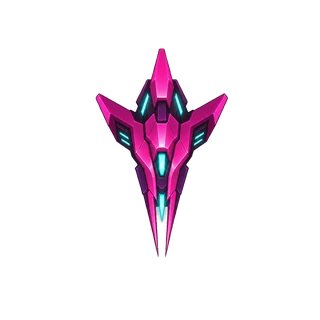
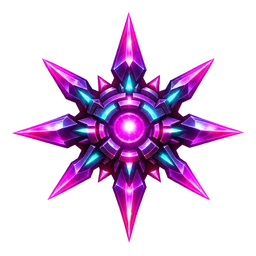
upd

Changed region(s): [[0.0312, 0.0312, 0.9688, 0.9375]]

diff --git a/grooverider/game.js b/grooverider/game.js
@@ -19,7 +19,7 @@ const TRACK_PROFILES=[
  {name:'SPOOKY FEELING',color:'#ae8dff',fire:.74,pick:.18,pace:.99}
 ];function profile(){return TRACK_PROFILES[musicIndex%TRACK_PROFILES.length]||TRACK_PROFILES[0]}
 
-let lastBeat=-1,musicEnabled=localStorage.getItem('grooveRaidMusic')!=='off',musicTracks=[],musicIndex=0,localMusicURLs=[],playlistIsLocal=false;
+let lastBeat=-1,musicEnabled=localStorage.getItem('grooveRaidMusic')!=='off',musicTracks=[],musicIndex=0,shuffleBag=[],localMusicURLs=[],playlistIsLocal=false;
 let musicGraph=null,musicAnalyser=null,musicFrequency=null,musicBass=0,musicMid=0,trackStarted=false;
 const musicEl=new Audio();musicEl.preload='auto';musicEl.volume=.72;musicEl.muted=!musicEnabled;
 function updateMusicButtons(){ui.music.classList.toggle('off',!musicEnabled);ui.music.classList.toggle('on',musicEnabled);ui.music.textContent=musicEnabled?'♫':'♪̸';ui.music.title=musicEnabled?'Music on · click to mute':'Music off · click to unmute';ui.music.setAttribute('aria-pressed',String(musicEnabled));}
@@ -46,12 +46,27 @@ const DEFAULT_TRACKS=[
   'rozzo – le martini [See the Sea Records].mp3',
   'rozzo – spooky feeling [See the Sea Records].mp3'
 ];
-function formatTrackTitle(filename){return filename.replace(/^rozzo\s*[-–]\s*/i,'').replace(/\s*\[(Minar Records|See the Sea Records)\]/g,'').replace(/\.mp3$/i,'')}
+function sourceFilename(track){let raw=typeof track==='string'?track:(track.file||track.src||track.title||'');try{return decodeURIComponent(String(raw).split('/').pop())}catch{return String(raw).split('/').pop()}}
+function trackInfo(source){
+ const raw=sourceFilename(source).replace(/\.(mp3|ogg|wav|m4a|aac|flac)$/i,'').trim();
+ const match=raw.match(/^(.+?)\s*[-–]\s*(.+?)(?:\s*\[([^\]]+)\])?$/);
+ if(match)return {artist:match[1].trim(),song:match[2].trim(),label:(match[3]||'Label not specified').trim()};
+ return {artist:'rozzo',song:raw.replace(/\s*\[[^\]]+\]$/,'').trim(),label:raw.match(/\[([^\]]+)\]$/)?.[1]||'Label not specified'};
+}
+function formatTrackTitle(filename){const t=trackInfo(filename);return `${t.artist} — ${t.song} — ${t.label}`}
 function fileUrl(name){return 'audio/'+name.split('/').map(encodeURIComponent).join('/')}
-function normalizeTracks(list){return list.map(t=>typeof t==='string'?{title:formatTrackTitle(t),src:fileUrl(t),offset:0}:{title:t.title||formatTrackTitle(t.file||'Untitled'),src:t.src||fileUrl(t.file||''),offset:Number(t.offset)||0}).filter(t=>t.src)}
+function normalizeTracks(list){return list.map(t=>{
+ const src=typeof t==='string'?fileUrl(t):(t.src||fileUrl(t.file||''));
+ const basis=sourceFilename(t), info=trackInfo(basis);
+ // Preserve file-derived artist/label, even when a manifest has only a short display title.
+ return {title:formatTrackTitle(basis),artist:info.artist,song:info.song,label:info.label,src,offset:typeof t==='string'?0:(Number(t.offset)||0)};
+}).filter(t=>t.src)}
+function refillShuffle(){shuffleBag=musicTracks.map((_,i)=>i).filter(i=>musicTracks.length<2||i!==musicIndex);for(let i=shuffleBag.length-1;i>0;i--){const j=Math.floor(Math.random()*(i+1));[shuffleBag[i],shuffleBag[j]]=[shuffleBag[j],shuffleBag[i]]}}
+function nextRandomIndex(){if(musicTracks.length<2)return 0;if(!shuffleBag.length)refillShuffle();return shuffleBag.pop()}
+function resetShuffle(){shuffleBag=[]}
 // Seed the playlist synchronously, before the start-button gesture. Do not wait for fetch().
 musicTracks=normalizeTracks(DEFAULT_TRACKS);
-function setTrack(i){if(!musicTracks.length)return;musicIndex=((i%musicTracks.length)+musicTracks.length)%musicTracks.length;const tr=musicTracks[musicIndex];trackStarted=false;musicEl.src=tr.src;musicEl.load();lastBeat=-1;musicStatus('♫ '+(musicIndex+1)+'/'+musicTracks.length+' · '+tr.title);ui.track.title=tr.title;}
+function setTrack(i){if(!musicTracks.length)return;musicIndex=((i%musicTracks.length)+musicTracks.length)%musicTracks.length;const tr=musicTracks[musicIndex];trackStarted=false;musicEl.src=tr.src;musicEl.load();lastBeat=-1;musicStatus('♫ '+(musicIndex+1)+'/'+musicTracks.length+' · '+tr.title);ui.track.textContent=tr.title;ui.track.title=tr.title;}
 setTrack(0);
 function playMusic(){if(!musicTracks.length||state!=='playing'||!musicEnabled)return;if(!musicEl.src)setTrack(musicIndex);
   setupMusicGraph(); // resume the audio graph in the original user gesture
@@ -65,16 +80,16 @@ fetch('audio/tracks.json',{cache:'no-store'}).then(r=>{if(!r.ok)throw Error('No 
  const list=normalizeTracks(Array.isArray(data)?data:data.tracks||[]);
  if(!list.length)return;
  const old=musicTracks[musicIndex];
- const match=list.findIndex(t=>t.title===old?.title);
- musicTracks=list;
+ const match=list.findIndex(t=>t.src===old?.src);
+ musicTracks=list;resetShuffle();
  if(match>=0)musicIndex=match;
  if(state==='menu'&&musicEl.paused)setTrack(musicIndex);
 }).catch(()=>{/* bundled playlist already works without JSON */});
 ui.loadTracks.onclick=()=>ui.audioFiles.click();
-ui.audioFiles.onchange=e=>{for(const url of localMusicURLs)URL.revokeObjectURL(url);const files=[...e.target.files].filter(f=>/\.(mp3|ogg|wav|m4a|aac|flac)$/i.test(f.name)||f.type.startsWith('audio/'));localMusicURLs=files.map(f=>URL.createObjectURL(f));if(!files.length)return;playlistIsLocal=true;musicTracks=normalizeTracks(files.map((f,i)=>({title:formatTrackTitle(f.name),src:localMusicURLs[i],offset:0})));setTrack(0);musicStatus('LOCAL TRACKS LOADED · '+files.length);if(state==='playing'&&musicEnabled)playMusic();};
+ui.audioFiles.onchange=e=>{for(const url of localMusicURLs)URL.revokeObjectURL(url);const files=[...e.target.files].filter(f=>/\.(mp3|ogg|wav|m4a|aac|flac)$/i.test(f.name)||f.type.startsWith('audio/'));localMusicURLs=files.map(f=>URL.createObjectURL(f));if(!files.length)return;playlistIsLocal=true;musicTracks=normalizeTracks(files.map((f,i)=>({file:f.name,src:localMusicURLs[i],offset:0})));resetShuffle();setTrack(nextRandomIndex());musicStatus('LOCAL TRACKS LOADED · '+files.length);if(state==='playing'&&musicEnabled)playMusic();};
 ui.music.onclick=()=>{musicEnabled=!musicEnabled;localStorage.setItem('grooveRaidMusic',musicEnabled?'on':'off');musicEl.muted=!musicEnabled;updateMusicButtons();if(musicEnabled){if(state==='playing')playMusic();else musicStatus('MUSIC ON · PRESS PLAY');}else{musicEl.pause();trackStarted=false;musicStatus('MUSIC OFF');}};
-ui.next.onclick=()=>{if(!musicTracks.length)return;setTrack(musicIndex+1);if(state==='playing'&&musicEnabled)playMusic();};
-musicEl.addEventListener('ended',()=>{if(musicTracks.length){setTrack(musicIndex+1);if(state==='playing'&&musicEnabled)playMusic();}});
+ui.next.onclick=()=>{if(!musicTracks.length)return;setTrack(nextRandomIndex());if(state==='playing'&&musicEnabled)playMusic();};
+musicEl.addEventListener('ended',()=>{if(musicTracks.length){setTrack(nextRandomIndex());if(state==='playing'&&musicEnabled)playMusic();}});
 musicEl.addEventListener('error',()=>{const name=musicTracks[musicIndex]?.title||'track';const code=musicEl.error?.code||'?';musicStatus('COULD NOT LOAD: '+name+' (code '+code+')',true);});
 function pauseMusic(){musicEl.pause()}
 function resumeMusic(){if(musicTracks.length&&musicEnabled)playMusic()}
@@ -85,7 +100,7 @@ function groove(z){return 240+86*Math.sin(z*.0026+.3)+35*Math.sin(z*.0073+1.2)+1
 function width(z){return 104+21*Math.sin(z*.0021+2.1)+13*Math.sin(z*.0067+1.4)}
 function banks(z){let c=groove(z),w=width(z);return[c-w,c+w]}
 function section(z){if(z<1800)return 'THE RUN-IN';if(z<3800)return 'DUST & STATIC';if(z<6500)return 'BASS PRESSURE';return 'THE INNER GROOVE'}
-function fresh(){seed=54879;state='playing';travel=0;distSpawn=350;score=0;energy=100;combo=0;shields=0;speed=125;beat=0;beatFlash=0;shake=0;flash=0;clock=0;playTime=0;lastBeat=-1;entities=[];bullets=[];enemyBullets=[];sparks=[];waves=[];ghosts=[];floaters=[];currentSection='';bossMeter=1800;nextBossAt=4200;bossActive=false;sectionFlash=0;scoreTick=0;powerUntil=0;powerType='';lastPowerAt=-300;lastTrackIndex=-1;touchSteerActive=false;touchSteerX=240;touchSteerY=616;touchId=null;touchStartClientX=0;touchStartClientY=0;touchStartPlayerX=240;touchStartPlayerY=616;player.x=groove(185);player.y=616;player.vx=0;player.vy=0;player.cool=0;player.inv=1.6;player.tilt=0;ui.overlay.classList.add('hidden');ui.pause.textContent='Ⅱ';if(musicTracks.length){setTrack(musicIndex);playMusic()}tone(330,.12,'triangle',.09,1.6);setTimeout(()=>tone(660,.17,'triangle',.06,1.25),100)}
+function fresh(){seed=54879;state='playing';travel=0;distSpawn=350;score=0;energy=100;combo=0;shields=0;speed=125;beat=0;beatFlash=0;shake=0;flash=0;clock=0;playTime=0;lastBeat=-1;entities=[];bullets=[];enemyBullets=[];sparks=[];waves=[];ghosts=[];floaters=[];currentSection='';bossMeter=1800;nextBossAt=4200;bossActive=false;sectionFlash=0;scoreTick=0;powerUntil=0;powerType='';lastPowerAt=-300;lastTrackIndex=-1;touchSteerActive=false;touchSteerX=240;touchSteerY=616;touchId=null;touchStartClientX=0;touchStartClientY=0;touchStartPlayerX=240;touchStartPlayerY=616;player.x=groove(185);player.y=616;player.vx=0;player.vy=0;player.cool=0;player.inv=1.6;player.tilt=0;ui.overlay.classList.add('hidden');ui.pause.textContent='Ⅱ';if(musicTracks.length){musicIndex=Math.floor(Math.random()*musicTracks.length);resetShuffle();setTrack(musicIndex);playMusic()}tone(330,.12,'triangle',.09,1.6);setTimeout(()=>tone(660,.17,'triangle',.06,1.25),100)}
 function overlay(kind){pauseMusic();state=kind;ui.overlay.classList.remove('hidden');ui.result.hidden=true;if(kind==='paused'){ui.kicker.textContent='INTERMISSION';ui.title.innerHTML='ON <em>HOLD</em>';ui.text.textContent='The needle is lifted. Ready when you are.';ui.play.innerHTML='RESUME PLAYBACK <span>↗</span>';ui.hint.textContent='PRESS P OR ESC TO RESUME';}else{if(score>best){best=score;localStorage.setItem('grooveRaidBest',String(best));ui.best.textContent=String(best).padStart(6,'0')}ui.kicker.textContent='END OF SIDE A';ui.title.innerHTML='SIGNAL <em>LOST</em>';ui.text.textContent='The groove got you. Drop the needle again and go deeper.';ui.result.hidden=false;ui.result.innerHTML=`SCORE <b>${String(score).padStart(6,'0')}</b> &nbsp; · &nbsp; DEPTH <b>${Math.floor(travel/10)}m</b>`;ui.play.innerHTML='PLAY AGAIN <span>↗</span>';ui.hint.textContent='CHASE YOUR NEXT HIGH SCORE';tone(190,.35,'sawtooth',.06,.4)}}
 ui.play.onclick=()=>{if(state==='paused'){state='playing';ui.overlay.classList.add('hidden');resumeMusic()}else fresh()};ui.pause.onclick=()=>{if(state==='playing')overlay('paused');else if(state==='paused'){state='playing';ui.overlay.classList.add('hidden');resumeMusic()}};
 ui.sound.onclick=()=>{sound=!sound;updateSoundButton();if(sound)tone(660,.08)};
@@ -105,7 +120,7 @@ function triggerSection(name){if(currentSection===name)return;currentSection=nam
 function spawnBoss(){if(bossActive)return;bossActive=true;const z=travel+1120;const x=groove(z);const kind=rnd()>.5?'bossPulse':'bossJelly';const boss={kind,x,z,r:52,hp:BASE_BOSS_HP,maxHp:BASE_BOSS_HP,damage:34,points:1500,phase:rnd()*6,originX:x,lastPulse:-1,boss:true,spawnedAt:travel,fireCool:1.1};entities.push(boss);addFloater(kind==='bossPulse'?'MINI-BOSS: PULSE CORE':'MINI-BOSS: GLITCH HIVE',240,205,'#ff86d9',2);waves.push({x:240,y:220,r:18,life:.9,color:'#86fff3'});tone(130,.22,'sawtooth',.07,1.15)}
 
 
-function spawnEnemy(kind,z,x,extra={}){const defs={dust:{r:20,hp:1,damage:18,points:110},static:{r:23,hp:2,damage:24,points:170},needle:{r:22,hp:2,damage:22,points:180},pulse:{r:26,hp:3,damage:30,points:250},jelly:{r:28,hp:3,damage:27,points:280}};entities.push(Object.assign({kind,x,z,phase:rnd()*6,side:rnd()>.5?1:-1,originX:x,lastPulse:-1},defs[kind],extra));}
+function spawnEnemy(kind,z,x,extra={}){const defs={dust:{r:20,hp:1,damage:18,points:110},static:{r:23,hp:2,damage:24,points:170},needle:{r:23,hp:2,damage:22,points:180},pulse:{r:26,hp:3,damage:30,points:250},jelly:{r:28,hp:3,damage:27,points:280}};entities.push(Object.assign({kind,x,z,phase:rnd()*6,side:rnd()>.5?1:-1,originX:x,lastPulse:-1},defs[kind],extra));}
 function spawn(){while(distSpawn<travel+980){let z=distSpawn,lanes=banks(z),margin=28,depth=Math.min(1,travel/5600),span=lanes[1]-lanes[0]-margin*2,slot=(n,total)=>lanes[0]+margin+span*((n+1)/(total+1)),typ=rnd();
  if(typ<.14){if(rnd()>.25)entities.push({kind:'charge',x:slot(0,1),z,r:17,phase:rnd()*6});}
  else if(typ<.14+profile().pick*.42&&travel>500&&z-lastPowerAt>1100){spawnPowerup(z);}
@@ -143,7 +158,7 @@ for(let i=entities.length-1;i>=0;i--){let e=entities[i],y=H-(e.z-travel);if(y>H+
   if(e.kind==='power'&&Math.hypot(e.x-player.x,y-player.y)<e.r+18){acquirePower(e,y);entities.splice(i,1);continue}if(e.kind==='charge'&&Math.hypot(e.x-player.x,y-player.y)<e.r+18){energy=clamp(energy+16,0,100);score+=90;entities.splice(i,1);addSparks(e.x,y,'#8bffe5',20,125);waves.push({x:e.x,y,r:12,life:.6,color:'#91ffea'});addFloater('+16 SIGNAL',e.x,y-18,'#91ffea');tone(540,.21,'sine',.085,1.9);continue}
   if(e.kind==='crack'){if(Math.abs(y-player.y)<10&&Math.abs(player.x-e.gx)>e.gap*.5-8)hit(22)}
   else if(e.kind!=='charge'&&e.kind!=='power'&&Math.hypot(e.x-player.x,y-player.y)<e.r+12)hit(e.damage||20)}
- for(let i=sparks.length-1;i>=0;i--){let p=sparks[i];p.x+=p.vx*dt;p.y+=p.vy*dt;p.vx*=.978;p.vy*=.978;p.life-=dt;if(p.life<=0)sparks.splice(i,1)}for(let i=waves.length-1;i>=0;i--){let v=waves[i];v.r+=dt*190;v.life-=dt;if(v.life<=0)waves.splice(i,1)}for(let i=floaters.length-1;i>=0;i--){let f=floaters[i];f.y-=dt*24;f.life-=dt;if(f.life<=0)floaters.splice(i,1)}sectionFlash=Math.max(0,sectionFlash-dt*.55);ui.score.textContent=String(score).padStart(6,'0');ui.energy.textContent=Math.ceil(energy)+'%';ui.bar.style.width=energy+'%';ui.bar.style.background=energy<30?'linear-gradient(90deg,#f64c79,#ffa787)':'linear-gradient(90deg,#31d7c4,#b2fff2)';ui.track.textContent=(musicTracks.length?('♫ '+musicTracks[musicIndex].title.toUpperCase().slice(0,15)):'SIDE A — '+section(travel));document.querySelectorAll('.beat-dots i').forEach((el,i)=>el.classList.toggle('active',i===beat));}
+ for(let i=sparks.length-1;i>=0;i--){let p=sparks[i];p.x+=p.vx*dt;p.y+=p.vy*dt;p.vx*=.978;p.vy*=.978;p.life-=dt;if(p.life<=0)sparks.splice(i,1)}for(let i=waves.length-1;i>=0;i--){let v=waves[i];v.r+=dt*190;v.life-=dt;if(v.life<=0)waves.splice(i,1)}for(let i=floaters.length-1;i>=0;i--){let f=floaters[i];f.y-=dt*24;f.life-=dt;if(f.life<=0)floaters.splice(i,1)}sectionFlash=Math.max(0,sectionFlash-dt*.55);ui.score.textContent=String(score).padStart(6,'0');ui.energy.textContent=Math.ceil(energy)+'%';ui.bar.style.width=energy+'%';ui.bar.style.background=energy<30?'linear-gradient(90deg,#f64c79,#ffa787)':'linear-gradient(90deg,#31d7c4,#b2fff2)';ui.track.textContent=(musicTracks.length?musicTracks[musicIndex].title:'SIDE A — '+section(travel));document.querySelectorAll('.beat-dots i').forEach((el,i)=>el.classList.toggle('active',i===beat));}
 
 function path(){ctx.beginPath();for(let y=-35;y<=H+35;y+=7){let z=travel+H-y,l=banks(z)[0];if(y===-35)ctx.moveTo(l,y);else ctx.lineTo(l,y)}for(let y=H+35;y>=-35;y-=7){let z=travel+H-y,r=banks(z)[1];ctx.lineTo(r,y)}ctx.closePath()}
 function drawBackground(){ctx.fillStyle='#0a0711';ctx.fillRect(0,0,W,H);if(art.texture.complete&&art.texture.naturalWidth){ctx.save();ctx.globalAlpha=.16;ctx.drawImage(art.texture,0,-200+(travel*.035)%200,W,H+200);ctx.restore();}let grad=ctx.createRadialGradient(240,400,35,240,400,510);grad.addColorStop(0,'#231224');grad.addColorStop(.68,'#0d0914');grad.addColorStop(1,'#08060c');ctx.fillStyle=grad;ctx.fillRect(0,0,W,H);
@@ -158,7 +173,7 @@ function drawGroove(){ctx.save();ctx.shadowColor='#f33b86';ctx.shadowBlur=25+mus
 function drawCharge(x,y,t){if(art.charge.complete&&art.charge.naturalWidth){ctx.save();ctx.globalCompositeOperation='screen';ctx.drawImage(art.charge,x-24,y-30,48,60);ctx.restore();return}ctx.save();ctx.translate(x,y);ctx.rotate(t*.8);ctx.shadowColor='#72ffe2';ctx.shadowBlur=24;ctx.strokeStyle='#72ffe2';ctx.lineWidth=3;ctx.beginPath();ctx.moveTo(0,-15);ctx.lineTo(13,0);ctx.lineTo(0,15);ctx.lineTo(-13,0);ctx.closePath();ctx.stroke();ctx.fillStyle='#72ffe2';ctx.fillRect(-4,-4,8,8);ctx.restore()}
 
 function drawPower(e,x,y){const c=e.power==='shield'?'#95f8ff':e.power==='rapid'?'#ffe78e':'#f39cff';ctx.save();ctx.translate(x,y);ctx.rotate(clock*1.2);ctx.shadowColor=c;ctx.shadowBlur=18;ctx.strokeStyle=c;ctx.lineWidth=3;ctx.beginPath();for(let j=0;j<6;j++){let a=j*Math.PI/3,xx=Math.cos(a)*19,yy=Math.sin(a)*19;j?ctx.lineTo(xx,yy):ctx.moveTo(xx,yy)}ctx.closePath();ctx.stroke();ctx.rotate(-clock*1.2);ctx.fillStyle=c;ctx.font='bold 16px monospace';ctx.textAlign='center';ctx.textBaseline='middle';ctx.fillText(e.power==='shield'?'S':e.power==='rapid'?'R':'3',0,1);ctx.restore()}
-function drawEnemy(e,x,y,t){const spriteKey={dust:'dust',static:'static',needle:'needle',pulse:'pulse',jelly:'jelly',bossPulse:'pulse',bossJelly:'jelly'}[e.kind],img=art[spriteKey];if(img&&img.complete&&img.naturalWidth){ctx.save();ctx.globalCompositeOperation='screen';ctx.translate(x,y);const rot=e.kind==='static'?t*1.4:(e.kind==='pulse'||e.kind==='bossPulse')?t*.5:e.kind==='needle'?Math.atan2(0,player.x-e.x)*.04+Math.sin(t*2+e.phase)*.08:Math.sin(t*2+e.phase)*.11;ctx.rotate(rot);const scale=(e.kind==='jelly'||e.kind==='bossJelly')?2.6:((e.kind==='pulse'||e.kind==='bossPulse')?2.3:(e.kind==='needle'?2.2:2.15));const bossBoost=e.boss?1.45:1;ctx.drawImage(img,-e.r*scale*bossBoost/2,-e.r*scale*bossBoost/2,e.r*scale*bossBoost,e.r*scale*bossBoost);ctx.restore();return}ctx.save();ctx.translate(x,y);ctx.rotate(Math.sin(t*2+e.phase)*.15);let r=e.r;if(e.kind==='dust'){ctx.shadowColor='#f23c83';ctx.shadowBlur=17;ctx.fillStyle='#f63d83';ctx.beginPath();for(let a=0;a<10;a++){let angle=a*Math.PI/5,rr=a%2?r*.6:r;ctx.lineTo(Math.cos(angle)*rr,Math.sin(angle)*rr)}ctx.closePath();ctx.fill();ctx.fillStyle='#2a0d2d';ctx.beginPath();ctx.arc(0,0,6,0,7);ctx.fill()}else if(e.kind==='needle'){ctx.fillStyle='#fb80a8';ctx.beginPath();ctx.moveTo(0,-r);ctx.lineTo(r*.72,r*.4);ctx.lineTo(0,r*.9);ctx.lineTo(-r*.72,r*.4);ctx.closePath();ctx.fill()}else if(e.kind==='pulse'){ctx.strokeStyle='#ff80c0';ctx.lineWidth=4;ctx.beginPath();ctx.arc(0,0,r,0,7);ctx.stroke();ctx.strokeStyle='#84fff2';ctx.beginPath();ctx.arc(0,0,r*.48,0,7);ctx.stroke()}else if(e.kind==='jelly'){ctx.fillStyle='rgba(251,128,168,.9)';ctx.beginPath();ctx.arc(0,0,r*.8,0,7);ctx.fill();for(let i=-1;i<=1;i++){ctx.fillRect(i*8,-2,3,r)}}else{ctx.shadowColor='#f9a3ea';ctx.shadowBlur=20;ctx.strokeStyle='#ff80c0';ctx.lineWidth=4;ctx.beginPath();for(let a=0;a<8;a++){let an=a*Math.PI/4;ctx.lineTo(Math.cos(an)*r,Math.sin(an)*r)}ctx.closePath();ctx.stroke();ctx.rotate(t);ctx.fillStyle='#fb80a8';ctx.fillRect(-10,-3,20,6);ctx.fillRect(-3,-10,6,20)}ctx.restore()}
+function drawEnemy(e,x,y,t){const spriteKey={dust:'dust',static:'static',needle:'needle',pulse:'pulse',jelly:'jelly',bossPulse:'pulse',bossJelly:'jelly'}[e.kind],img=art[spriteKey];if(img&&img.complete&&img.naturalWidth){ctx.save();ctx.globalCompositeOperation='screen';ctx.translate(x,y);const rot=e.kind==='static'?t*1.4:(e.kind==='pulse'||e.kind==='bossPulse')?t*.5:e.kind==='needle'?Math.atan2(0,player.x-e.x)*.04+Math.sin(t*2+e.phase)*.08:Math.sin(t*2+e.phase)*.11;ctx.rotate(rot);const scale=(e.kind==='jelly'||e.kind==='bossJelly')?2.6:((e.kind==='pulse'||e.kind==='bossPulse')?2.3:(e.kind==='needle'?2.8:2.15));const bossBoost=e.boss?1.45:1;ctx.drawImage(img,-e.r*scale*bossBoost/2,-e.r*scale*bossBoost/2,e.r*scale*bossBoost,e.r*scale*bossBoost);ctx.restore();return}ctx.save();ctx.translate(x,y);ctx.rotate(Math.sin(t*2+e.phase)*.15);let r=e.r;if(e.kind==='dust'){ctx.shadowColor='#f23c83';ctx.shadowBlur=17;ctx.fillStyle='#f63d83';ctx.beginPath();for(let a=0;a<10;a++){let angle=a*Math.PI/5,rr=a%2?r*.6:r;ctx.lineTo(Math.cos(angle)*rr,Math.sin(angle)*rr)}ctx.closePath();ctx.fill();ctx.fillStyle='#2a0d2d';ctx.beginPath();ctx.arc(0,0,6,0,7);ctx.fill()}else if(e.kind==='needle'){ctx.fillStyle='#fb80a8';ctx.beginPath();ctx.moveTo(0,-r);ctx.lineTo(r*.72,r*.4);ctx.lineTo(0,r*.9);ctx.lineTo(-r*.72,r*.4);ctx.closePath();ctx.fill()}else if(e.kind==='pulse'){ctx.strokeStyle='#ff80c0';ctx.lineWidth=4;ctx.beginPath();ctx.arc(0,0,r,0,7);ctx.stroke();ctx.strokeStyle='#84fff2';ctx.beginPath();ctx.arc(0,0,r*.48,0,7);ctx.stroke()}else if(e.kind==='jelly'){ctx.fillStyle='rgba(251,128,168,.9)';ctx.beginPath();ctx.arc(0,0,r*.8,0,7);ctx.fill();for(let i=-1;i<=1;i++){ctx.fillRect(i*8,-2,3,r)}}else{ctx.shadowColor='#f9a3ea';ctx.shadowBlur=20;ctx.strokeStyle='#ff80c0';ctx.lineWidth=4;ctx.beginPath();for(let a=0;a<8;a++){let an=a*Math.PI/4;ctx.lineTo(Math.cos(an)*r,Math.sin(an)*r)}ctx.closePath();ctx.stroke();ctx.rotate(t);ctx.fillStyle='#fb80a8';ctx.fillRect(-10,-3,20,6);ctx.fillRect(-3,-10,6,20)}ctx.restore()}
 
 function drawCrack(e,y){let [l,r]=banks(e.z);ctx.save();ctx.shadowColor='#fe3f75';ctx.shadowBlur=16;ctx.strokeStyle='#ff5386';ctx.lineWidth=5;const gapL=e.gx-e.gap*.5,gapR=e.gx+e.gap*.5;for(let start of [[l+5,gapL],[gapR,r-5]]){ctx.beginPath();let n=9;for(let i=0;i<=n;i++){let x=mix(start[0],start[1],i/n),yy=y+Math.sin(i*2.3+e.z)*6;if(i===0)ctx.moveTo(x,yy);else ctx.lineTo(x,yy)}ctx.stroke()}ctx.restore();ctx.fillStyle='#a3fff5';ctx.font='9px DM Mono, monospace';ctx.textAlign='center';ctx.fillText('SYNC',e.gx,y-13)}
 function drawPlayer(){let {x,y}=player;y+=Math.sin(clock*3.6)*2.6;if(player.inv>0&&Math.floor(clock*16)%2===0)return;if(art.player.complete&&art.player.naturalWidth){ctx.save();ctx.globalCompositeOperation='screen';ctx.translate(x,y);ctx.rotate(player.tilt);ctx.shadowColor='#ff63c6';ctx.shadowBlur=16;ctx.drawImage(art.player,-30,-41,60,66);ctx.restore();return}ctx.save();ctx.translate(x,y);ctx.rotate(player.tilt);ctx.shadowColor='#82ffe5';ctx.shadowBlur=25;ctx.fillStyle='#9affea';ctx.beginPath();ctx.moveTo(0,-25);ctx.lineTo(13,6);ctx.lineTo(8,16);ctx.lineTo(0,10);ctx.lineTo(-8,16);ctx.lineTo(-13,6);ctx.closePath();ctx.fill();ctx.fillStyle='#163943';ctx.beginPath();ctx.moveTo(0,-17);ctx.lineTo(5,2);ctx.lineTo(-5,2);ctx.closePath();ctx.fill();ctx.strokeStyle='#f6e7ff';ctx.lineWidth=2;ctx.beginPath();ctx.moveTo(-17,10);ctx.lineTo(17,10);ctx.stroke();ctx.fillStyle='#f85990';ctx.beginPath();ctx.moveTo(-6,19);ctx.lineTo(0,31+Math.random()*13);ctx.lineTo(6,19);ctx.closePath();ctx.fill();ctx.restore()}

diff --git a/grooverider/index.html b/grooverider/index.html
@@ -1,3 +1,3 @@
-<!doctype html><html lang="en"><head><meta charset="utf-8"><meta name="viewport" content="width=device-width,initial-scale=1,viewport-fit=cover,user-scalable=no"><meta name="theme-color" content="#080710"><meta name="description" content="GROOVE RAID — an arcade shooter deep inside a vinyl record."><link rel="manifest" href="manifest.webmanifest"><link rel="icon" href="icon.svg" type="image/svg+xml"><link rel="stylesheet" href="style.css"><title>GROOVE RAID v1.4 — Velvet Groove Touch Fix</title></head><body><div class="shell"><header class="top"><div class="brand"><span class="brand-icon">◉</span><div><strong>GROOVE<span>RAID</span></strong><small>AN ARCADE INSIDE THE RECORD</small></div></div><div class="header-right"><span id="playbackStatus" role="status" aria-live="polite">♫ PLAYLIST READY</span><button id="musicBtn" class="icon-btn" aria-label="Toggle music" title="Toggle music">♫</button>
-<button id="nextTrackBtn" class="icon-btn" aria-label="Next track" title="Next track">⏭</button><button id="soundBtn" class="icon-btn" aria-label="Toggle sound effects" title="Toggle sound effects"><span class="icon-fallback">🔊</span></button><button id="pauseBtn" class="icon-btn" aria-label="Pause" title="Pause">Ⅱ</button></div></header><main class="stage"><canvas id="game" width="480" height="800" aria-label="Groove Raid game"></canvas><div class="grain"></div><div id="overlay" class="overlay"><div class="panel"><div class="eyebrow" id="overlayKicker">SIDE A / TRACK 01</div><div class="record" aria-hidden="true"><div class="record-label"><span>GR</span><i></i></div></div><h1 id="overlayTitle">GROOVE<br><em>RAID</em></h1><p id="overlayText">You are a signal racing through a vinyl groove. Dodge the distortion. Destroy the noise. Keep the music alive.</p><div class="track-loader"><button id="loadTracksBtn" type="button">＋ LOAD YOUR TRACKS</button><input id="audioFiles" type="file" accept="audio/*,.mp3,.ogg,.wav,.m4a,.flac" multiple hidden><div id="audioInfo">124 BPM · 9 ROZZO TRACKS · VELVET GROOVE MODE · TOUCH DRAG</div></div>
-<div id="result" class="result" hidden></div><button id="playBtn" class="primary">DROP THE NEEDLE <span>↗</span></button><p id="overlayHint" class="hint">MOVE FREELY WITH ARROWS / WASD &nbsp; · &nbsp; AUTO FIRE<br>ON MOBILE: TOUCH AND DRAG ANYWHERE ON THE PLAYFIELD</p></div></div><div class="hud"><div class="hud-score"><small>SCORE</small><b id="score">000000</b></div><div class="hud-track"><small id="trackLabel">SIDE A — THE RUN-IN</small><div class="beat-dots"><i></i><i></i><i></i><i></i></div></div><div class="hud-energy"><small>SIGNAL <span id="energyVal">100%</span></small><div class="meter"><div id="energyBar"></div></div></div></div></main><footer><span>33⅓ RPM <b class="live-dot"></b> 124 BPM</span><span>HI-SCORE <strong id="best">000000</strong></span><span>© WEIRDFLEX ARCADE</span></footer></div><script src="game.js"></script><script>if('serviceWorker' in navigator && location.protocol !== 'file:')navigator.serviceWorker.register('./sw.js').catch(()=>{});</script></body></html>
+<!doctype html><html lang="en"><head><meta charset="utf-8"><meta name="viewport" content="width=device-width,initial-scale=1,viewport-fit=cover,user-scalable=no"><meta name="theme-color" content="#080710"><meta name="description" content="GROOVE RAID — an arcade shooter deep inside a vinyl record."><link rel="manifest" href="manifest.webmanifest"><link rel="icon" href="icon.svg" type="image/svg+xml"><link rel="stylesheet" href="style.css?v=151"><title>GROOVE RAID v1.5 — Sprite & Shuffle Edition</title></head><body><div class="shell"><header class="top"><div class="brand"><span class="brand-icon">◉</span><div><strong>GROOVE<span>RAID</span></strong><small>AN ARCADE INSIDE THE RECORD</small></div></div><div class="header-right"><span id="playbackStatus" role="status" aria-live="polite">♫ PLAYLIST READY</span><button id="musicBtn" class="icon-btn" aria-label="Toggle music" title="Toggle music">♫</button>
+<button id="nextTrackBtn" class="icon-btn" aria-label="Next track" title="Next track">⏭</button><button id="soundBtn" class="icon-btn" aria-label="Toggle sound effects" title="Toggle sound effects"><span class="icon-fallback">🔊</span></button><button id="pauseBtn" class="icon-btn" aria-label="Pause" title="Pause">Ⅱ</button></div></header><main class="stage"><canvas id="game" width="480" height="800" aria-label="Groove Raid game"></canvas><div class="grain"></div><div id="overlay" class="overlay"><div class="panel"><div class="eyebrow" id="overlayKicker">SIDE A / TRACK 01</div><div class="record" aria-hidden="true"><div class="record-label"><span>GR</span><i></i></div></div><h1 id="overlayTitle">GROOVE<br><em>RAID</em></h1><p id="overlayText">You are a signal racing through a vinyl groove. Dodge the distortion. Destroy the noise. Keep the music alive.</p><div class="track-loader"><button id="loadTracksBtn" type="button">＋ LOAD YOUR TRACKS</button><input id="audioFiles" type="file" accept="audio/*,.mp3,.ogg,.wav,.m4a,.flac" multiple hidden><div id="audioInfo">124 BPM · 9 ROZZO TRACKS · RANDOM PLAYLIST</div></div>
+<div id="result" class="result" hidden></div><button id="playBtn" class="primary">DROP THE NEEDLE <span>↗</span></button><p id="overlayHint" class="hint">MOVE FREELY WITH ARROWS / WASD &nbsp; · &nbsp; AUTO FIRE<br>ON MOBILE: TOUCH AND DRAG ANYWHERE ON THE PLAYFIELD</p></div></div><div class="hud"><div class="hud-score"><small>SCORE</small><b id="score">000000</b></div><div class="hud-track"><small id="trackLabel">SIDE A — THE RUN-IN</small><div class="beat-dots"><i></i><i></i><i></i><i></i></div></div><div class="hud-energy"><small>SIGNAL <span id="energyVal">100%</span></small><div class="meter"><div id="energyBar"></div></div></div></div></main><footer><span>33⅓ RPM <b class="live-dot"></b> 124 BPM</span><span>HI-SCORE <strong id="best">000000</strong></span><span>© WEIRDFLEX ARCADE</span></footer></div><script src="game.js?v=151"></script><script>if('serviceWorker' in navigator && location.protocol !== 'file:')navigator.serviceWorker.register('./sw.js').catch(()=>{});</script></body></html>

diff --git a/grooverider/sw.js b/grooverider/sw.js
@@ -1,1 +1,1 @@
-const CACHE='groove-raid-v14';const ASSETS=['./','./index.html','./style.css','./game.js','./icon.svg','./manifest.webmanifest','./assets/player.webp','./assets/charge.webp','./assets/vinyl-texture.webp','./assets/splash-art.webp','./assets/enemy-dust.webp','./assets/enemy-static.webp','./assets/enemy-needle.webp','./assets/enemy-pulse.webp','./assets/enemy-jelly.webp'];self.addEventListener('install',e=>e.waitUntil(caches.open(CACHE).then(c=>c.addAll(ASSETS)).then(()=>self.skipWaiting())));self.addEventListener('activate',e=>e.waitUntil(caches.keys().then(keys=>Promise.all(keys.filter(k=>k!==CACHE).map(k=>caches.delete(k)))).then(()=>self.clients.claim())));self.addEventListener('fetch',e=>{if(e.request.method!=='GET')return;if(e.request.url.match(/\.(mp3|ogg|wav|m4a|aac|flac)(\?|$)/i))return;e.respondWith(caches.match(e.request).then(r=>r||fetch(e.request)))});
+const CACHE='groove-raid-v151';const ASSETS=['./','./index.html','./style.css','./game.js','./icon.svg','./manifest.webmanifest','./assets/player.webp','./assets/charge.webp','./assets/vinyl-texture.webp','./assets/splash-art.webp','./assets/enemy-dust.webp','./assets/enemy-static.webp','./assets/enemy-needle.webp','./assets/enemy-pulse.webp','./assets/enemy-jelly.webp'];self.addEventListener('install',e=>e.waitUntil(caches.open(CACHE).then(c=>c.addAll(ASSETS)).then(()=>self.skipWaiting())));self.addEventListener('activate',e=>e.waitUntil(caches.keys().then(keys=>Promise.all(keys.filter(k=>k!==CACHE).map(k=>caches.delete(k)))).then(()=>self.clients.claim())));self.addEventListener('fetch',e=>{if(e.request.method!=='GET')return;if(e.request.url.match(/\.(mp3|ogg|wav|m4a|aac|flac)(\?|$)/i))return;e.respondWith(caches.match(e.request).then(r=>r||fetch(e.request)))});

diff --git a/grooverider/style.css b/grooverider/style.css
@@ -14,3 +14,9 @@
 .mobile-controls{display:none!important}
 @media(min-width:900px){.shell{max-width:640px}.stage{box-shadow:0 12px 90px #f1498b22,0 0 0 4px #100c16}canvas{width:min(100%,calc((100svh - 126px) * .62))}}
 @media(max-width:540px){canvas{width:min(100%,calc((100svh - 104px) * .64))}.shell{padding:4px 6px 6px}.top{height:44px}.hud{padding-top:9px}footer{font-size:8px;padding:7px 2px 3px}.stage{box-shadow:0 8px 34px #e83e7d18,0 0 0 3px #100c16}}
+
+/* Full track credits: two/three-line wrapping rather than clipped titles. */
+.hud-track{position:relative;min-width:0;padding-top:1px}
+#trackLabel{display:block;max-width:none;margin:0 auto;overflow:visible;text-overflow:clip;white-space:normal;overflow-wrap:anywhere;word-break:normal;font-size:9px;line-height:1.35;color:#f1c9df;text-shadow:0 1px 7px #05020b}
+.beat-dots{margin-top:5px}
+@media(max-width:540px){#trackLabel{font-size:8px;line-height:1.35}.hud{grid-template-columns:.85fr 1.55fr .85fr;column-gap:5px}.hud-track{padding:0 2px}.hud-energy small{font-size:8px}}

diff --git a/grooverider/README.md b/grooverider/README.md
@@ -1,8 +1,15 @@
-# GROOVE RAID v1.4 — Velvet Groove Touch Fix
+# GROOVE RAID v1.5 — Sprite & Shuffle Edition
 
-Fixes:
-- mobile touch now works from any point on the screen, not just on the ship
-- touch control is now relative drag, so the ship no longer teleports to the tap point
-- desktop controls preserved
+- New truly transparent charge canister, replacing `assets/charge.webp`.
+- New transparent crystal-star enemy in `assets/enemy.webp` and `assets/enemy-needle.webp`.
+- Needle renders at roughly the player's ship width (~64px vs 60px). Collision radius remains fair.
+- Retains v1.4 relative touch steering, auto-fire, playlists and game balance.
+- Service worker cache version updated and main scripts cache-busted.
 
-Keep your existing `audio/` folder when uploading. Hard refresh after deploy.
+## Deploy
+Upload contents directly into `weirdflex/grooverider/`, replacing existing game files.
+**Do not remove the existing `audio/` folder:** there are no MP3s or audio folder in this ZIP.
+
+- Shuffled nine-song playback, no immediate repeat; reshuffle after the full cycle.
+- Full track credit shown in HUD: artist — track — label. Unknown labels marked "Label not specified".
+- Next-track control follows the same shuffled order.
